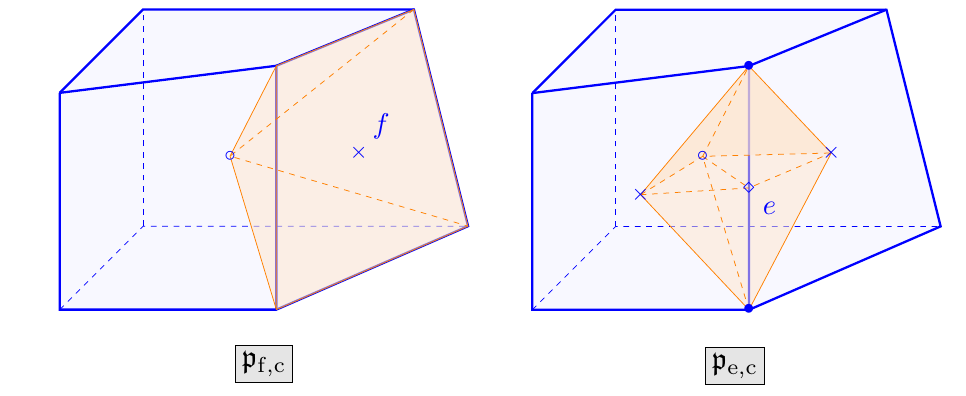
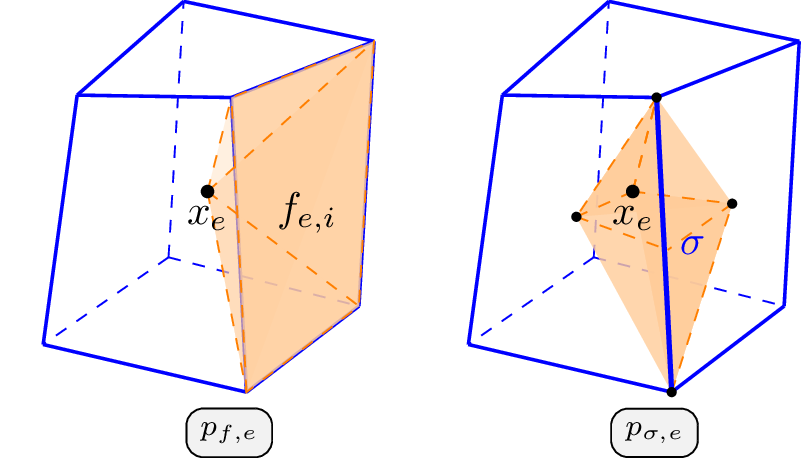
wip

diff --git a/doc/source/conf.py b/doc/source/conf.py
@@ -53,6 +53,7 @@ extensions = [
 ]
 
 numfig = True
+numfig_secnum_depth = 2
 
 htmlhelp_basename = 'TRUST Documentation'
 

diff --git a/doc/source/srcs/num_meth/discretisation/polymac_cdo/index.rst b/doc/source/srcs/num_meth/discretisation/polymac_cdo/index.rst
@@ -14,27 +14,45 @@ center of each control volume
 :math:`cv \in \{ E, F, \Sigma, V \}`
 corresponding respectively to the cells, the faces, the egdes and the
 points localization, called :math:`x_{cv}` has to be introduce. Then we
-introduce (see Figure :numref:`fig:dual_mesh_cdo`):
+introduce:
 
 -  | The dual cell :math:`\widetilde{v}` is located at the
-     center of gravity of the cell : :math:`x_{c}`.
+     center of gravity of the cell : :math:`x_{c}`, see Figure :numref:`fig:dual_cell_cdo`.
 
 -  | The dual face :math:`\widetilde{\sigma}` is the line that
      links the gravity center of the face :math:`x_f` to the gravity
-     center of the neighbour cells of the face.
+     center of the neighbour cells of the face, see Figure :numref:`fig:dual_face_cdo`.
 
 -  The dual edge :math:`F` is the surface that
    links the gravity center of all of the neighbouring cells
    :math:`x_{e}`, the gravity center of all of the neighbouring faces
-   :math:`x_{f}` and the gravity center of the edge :math:`x_{\sigma}`.
+   :math:`x_{f}` and the gravity center of the edge :math:`x_{\sigma}`, see Figure :numref:`fig:dual_edge_cdo`.
 
-.. _fig:dual_mesh_cdo:
+.. _fig:dual_cell_cdo:
 
-.. figure:: FIGURES/Dual_mesh_PolyMAC.png
+.. figure:: FIGURES/Dual_cell.png
+   :class: custom-image-class
+   
+   Dual cell when using PolyMAC_CDO
+  
+
+  
+.. _fig:dual_face_cdo:
+
+.. figure:: FIGURES/Dual_face.png
    :class: custom-image-class
   
-   Dual mesh of PolyMAC.
+   Dual face when using PolyMAC_CDO
 
+
+.. _fig:dual_edge_cdo:
+
+.. figure:: FIGURES/Dual_edge.png
+   :class: custom-image-class
+   
+   Dual edge when using PolyMAC_CDO
+   
+   
 Location of the unknowns
 ~~~~~~~~~~~~~~~~~~~~~~~~
 
